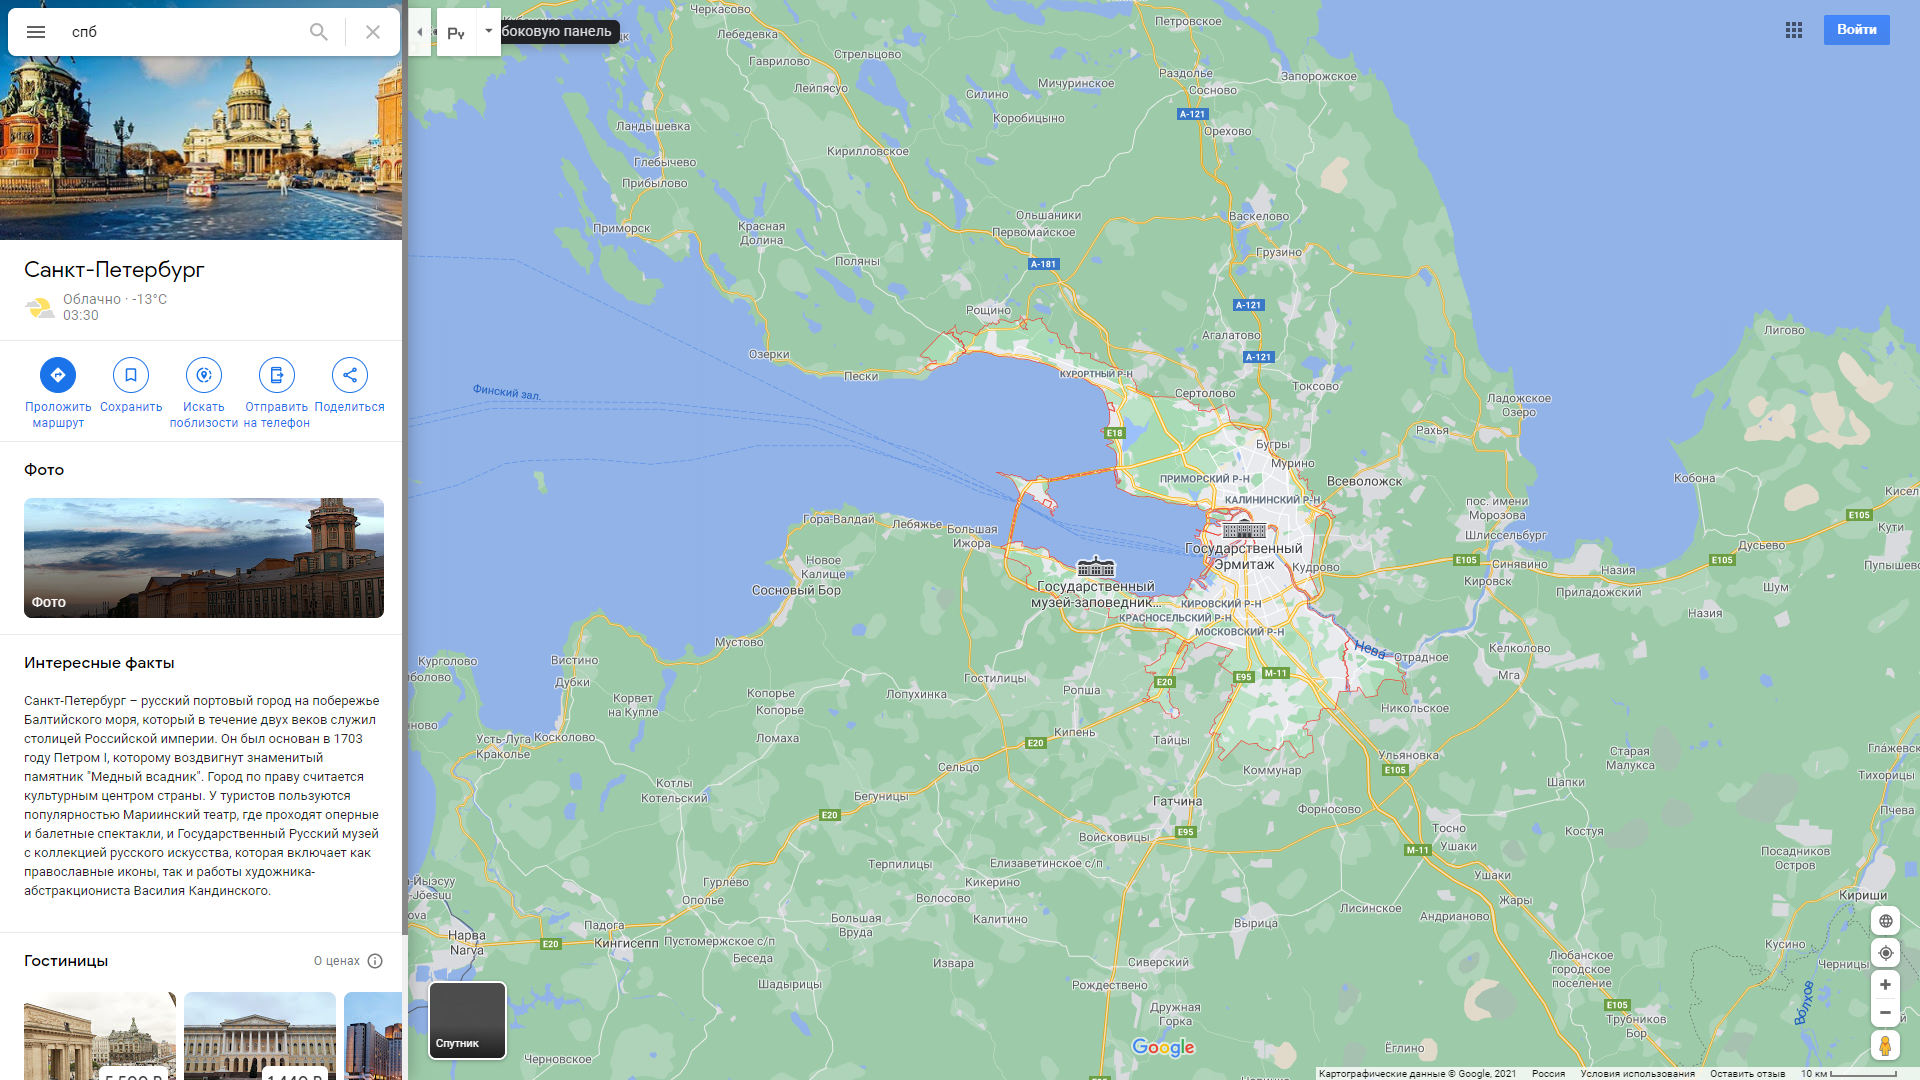
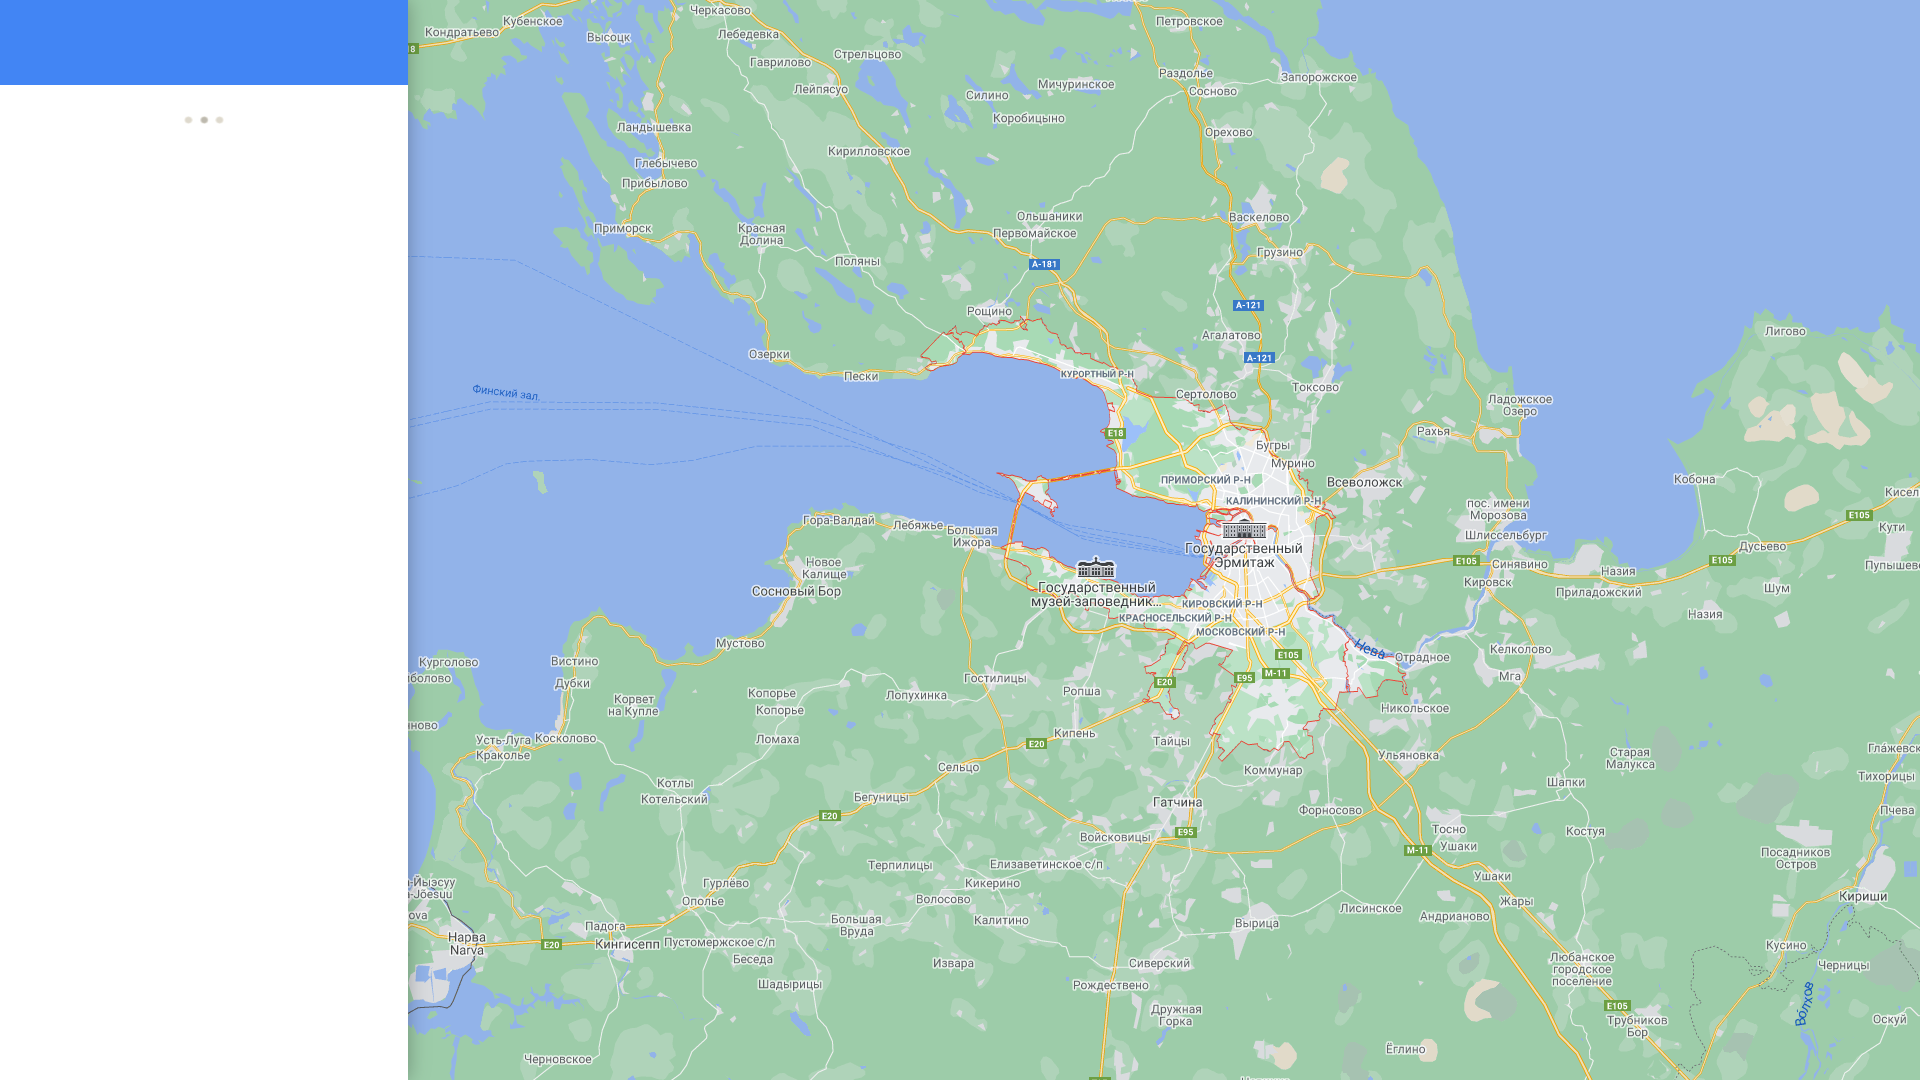
changing the version puppeteer and upd mock test

diff --git a/tests/Calculator.js b/tests/Calculator.js
@@ -1,14 +1,14 @@
-Feature('Calculator').timeout(5000);
+Feature('Calculator');
 
 const { I, mainPage, searchResultPage } = inject();
 
 Scenario('Calculator Visual Test', () => {
   I.openCalculator("2+3");
   I.saveScreenshot("Calculator.png");
-  I.seeVisualDiff("Calculator.png", {tolerance: 7, prepareBaseImage: false});
+  I.seeVisualDiff("Calculator.png", {tolerance: 8, prepareBaseImage: false});
 });
 
-Scenario('Calculator Mock', () => {
+Scenario('Calculator', () => {
     I.openCalculator("2+3");
     I.click("//div[@jsname='N10B9']");
     I.click("//div[@jsname='XSr6wc']");

diff --git a/pages/SearchResultPage.js b/pages/SearchResultPage.js
@@ -16,9 +16,8 @@ module.exports = {
     I.search(text);
     I.click("#hdtb-msb > div:nth-child(1) > div > div:nth-child(2) > a");
     I.wait(2);
-    I.waitForElement('//*[@id="pane"]/div/div[1]/div/div/div[2]', 10);
-    I.wait(2);
-    I.waitForElement('//*[@id="pane"]/div/div[1]/div/div/div[1]/div[1]/button/img', 10);
+    //I.waitForElement('//*[@id="pane"]/div/div[1]/div/div/div[2]', 10);
+    //I.waitForElement('//*[@id="pane"]/div/div[1]/div/div/div[1]/div[1]/button/img', 10);
   }
 
 }

diff --git a/tests/Map.js b/tests/Map.js
@@ -1,9 +1,12 @@
-Feature('Map').timeout(30000);
+Feature('Map');
 
 const { I, mainPage, searchResultPage } = inject();
 
-Scenario('Spb Map Visual Test', () => {
+Scenario('Spb Map Visual Test (Mock)', () => {
+  I.startMocking();
+  I.mockRequest('GET', '/maps/*', 200);
   I.openMap("спб");
   I.saveScreenshot("spb.png");
-  I.seeVisualDiff("spb.png", {tolerance: 8, prepareBaseImage: false});
+  I.seeVisualDiff("spb.png", {tolerance: 2, prepareBaseImage: false});
+  I.stopMocking();
 });
